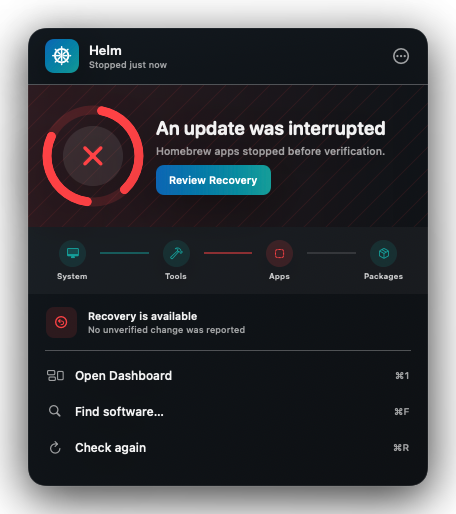
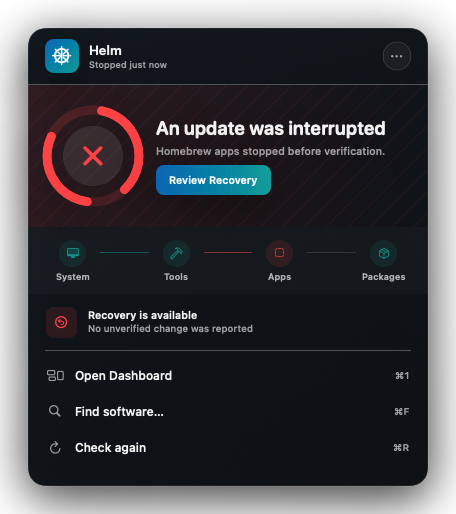
docs: refine approved Wayfinder popover

diff --git a/tools/design-lab/Sources/HelmDesignLab/V020WayfinderPopoverProposal.swift b/tools/design-lab/Sources/HelmDesignLab/V020WayfinderPopoverProposal.swift
@@ -191,10 +191,18 @@ struct V020WayfinderPopoverProposal: View {
 
       Spacer()
 
-      Image(systemName: "ellipsis.circle")
-        .font(.system(size: 16, weight: .medium))
-        .foregroundStyle(palette.secondaryText)
-        .accessibilityLabel("Utilities")
+      ZStack {
+        Circle()
+          .fill(palette.surface.opacity(0.82))
+        Circle()
+          .stroke(palette.line, lineWidth: 1)
+        Image(systemName: "ellipsis")
+          .font(.system(size: 12, weight: .semibold))
+          .foregroundStyle(palette.secondaryText)
+      }
+      .frame(width: 28, height: 28)
+      .accessibilityLabel("Utilities")
+      .accessibilityHint("Opens Settings, support, app updates, About, and Quit")
     }
     .padding(.horizontal, 17)
     .frame(height: 56)
@@ -230,6 +238,11 @@ struct V020WayfinderPopoverProposal: View {
               in: RoundedRectangle(cornerRadius: 8, style: .continuous)
             )
             .padding(.top, 2)
+        } else {
+          Label("No action needed", systemImage: "checkmark")
+            .font(.system(size: 10.5, weight: .semibold))
+            .foregroundStyle(NavigatorPalette.seaGlass)
+            .padding(.top, 3)
         }
       }
 
@@ -263,22 +276,22 @@ struct V020WayfinderPopoverProposal: View {
     }
     .padding(.horizontal, 17)
     .frame(height: 67)
-    .background(palette.surface.opacity(0.72))
+    .background(palette.surface.opacity(0.46))
   }
 
   private func routeStage(_ title: String, symbol: String, tone: V020StageTone) -> some View {
     VStack(spacing: 4) {
       ZStack {
-        Circle().fill(tone.color.opacity(0.15))
+        Circle().fill(tone.color.opacity(0.11))
         Image(systemName: symbol)
           .font(.system(size: 10, weight: .medium))
-          .foregroundStyle(tone.color)
+          .foregroundStyle(tone.color.opacity(0.86))
       }
       .frame(width: 27, height: 27)
 
       Text(title)
-        .font(.system(size: 8, weight: .semibold))
-        .foregroundStyle(tone == .cached ? palette.secondaryText : palette.primaryText.opacity(0.78))
+        .font(.system(size: 9, weight: .semibold))
+        .foregroundStyle(tone == .cached ? palette.secondaryText : palette.primaryText.opacity(0.7))
     }
     .frame(width: 55)
   }
@@ -287,7 +300,7 @@ struct V020WayfinderPopoverProposal: View {
     Rectangle()
       .fill(connectorColor(after: index))
       .frame(maxWidth: .infinity)
-      .frame(height: 2)
+      .frame(height: 1.5)
       .offset(y: -8)
   }
 
@@ -306,7 +319,7 @@ struct V020WayfinderPopoverProposal: View {
         Text(state.contextTitle)
           .font(.system(size: 10.5, weight: .semibold))
         Text(state.contextDetail)
-          .font(.system(size: 9, weight: .medium))
+          .font(.system(size: 9.5, weight: .medium))
           .foregroundStyle(palette.secondaryText)
           .lineLimit(1)
       }

diff --git a/docs/app-design/proposals/v020-wayfinder-popover/README.md b/docs/app-design/proposals/v020-wayfinder-popover/README.md
@@ -1,16 +1,21 @@
 # v0.20 Unified Wayfinder Popover Proposal
 
-Status: **Owner review requested**
+Status: **Composition approved with minor refinements**
 
 Scope: non-shipping design and interaction contract for Roadmap Slice 20.1
 
 Production behavior is unchanged by this proposal. The SwiftUI in `tools/design-lab/` uses synthetic fixtures and is excluded from the Helm application target.
 
-## Decision to make
+## Owner decision
 
-Does this composition give Helm one useful, recognizable, and stable menu-bar surface without recreating the Dashboard inside a transient panel?
+On 2026-08-16, the owner approved the proposed composition and requested that it remain intact with these refinements:
 
-Review feedback may be left on the proposal PR, on this document, or against an individual render. The resulting decision and any requested revisions must be recorded here before production implementation begins.
+1. Increase the smallest route and context copy slightly.
+2. Make the route strip visually quieter than the Course hero.
+3. Improve the healthy hero's balance without inventing an action.
+4. Keep the utilities menu discoverable while subordinate to operational actions.
+
+The updated renders implement that decision without changing the 400-by-458-point composition, region order, or action hierarchy. The healthy hero now uses a quiet noninteractive reassurance, and the utilities control has a bounded button treatment with an explicit accessibility label and hint.
 
 Original Wayfinder remains the approved visual direction. This proposal does not reopen that decision. It applies the approved environment-navigator thesis to the production popover gap left after v0.19:
 
@@ -138,14 +143,14 @@ No package mutation, manager configuration, long diagnostics, or output browsing
 - Reduce Transparency substitutes opaque semantic surfaces without changing hierarchy.
 - All seven locales and representative +40% text expansion must pass before production replacement.
 
-## Review gate
+## Implementation gate
 
-Approve, revise, or reject these points before production implementation:
+The composition gate is resolved. Production implementation must preserve:
 
-1. Overall composition and information density.
+1. The approved overall composition and information density.
 2. Course Indicator treatment across semantic states.
-3. Usefulness of the route strip and single context row.
-4. Action hierarchy and utility-menu placement.
-5. Fixed ordinary-state footprint versus a smaller or more adaptive panel.
+3. The quieter route strip and single context row.
+4. Contextual-action hierarchy and discoverable utility-menu placement.
+5. The fixed ordinary-state footprint with bounded text expansion.
 
-After approval, production implementation should replace regions incrementally from the bottom up, retain a working Open Dashboard route throughout, and add state-fixture, deep-link, accessibility, localization, activation, and bounded-size coverage before removing the legacy code.
+Production implementation should replace regions incrementally from the bottom up, retain a working Open Dashboard route throughout, and add state-fixture, deep-link, accessibility, localization, activation, and bounded-size coverage before removing the legacy code.
